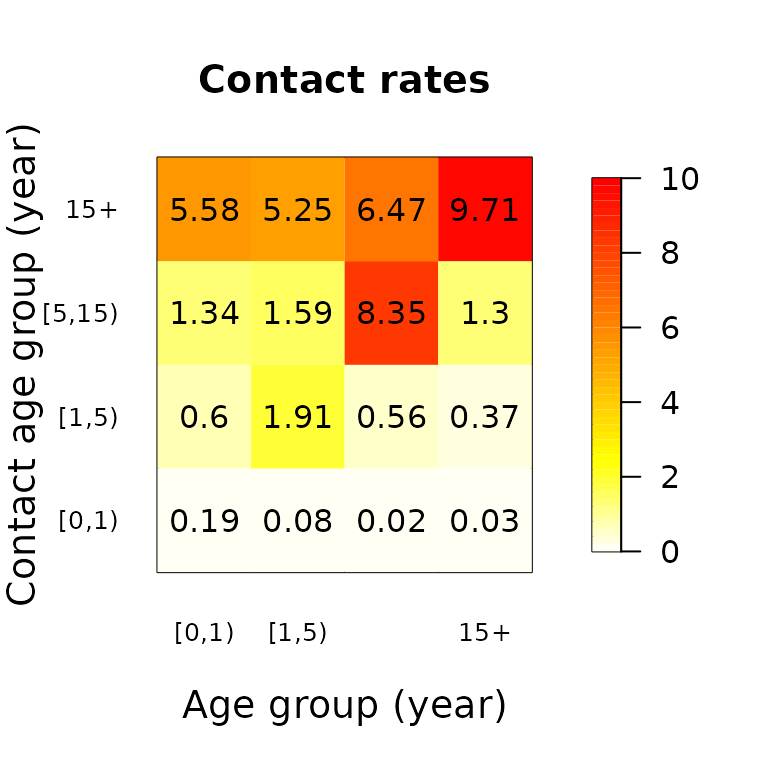
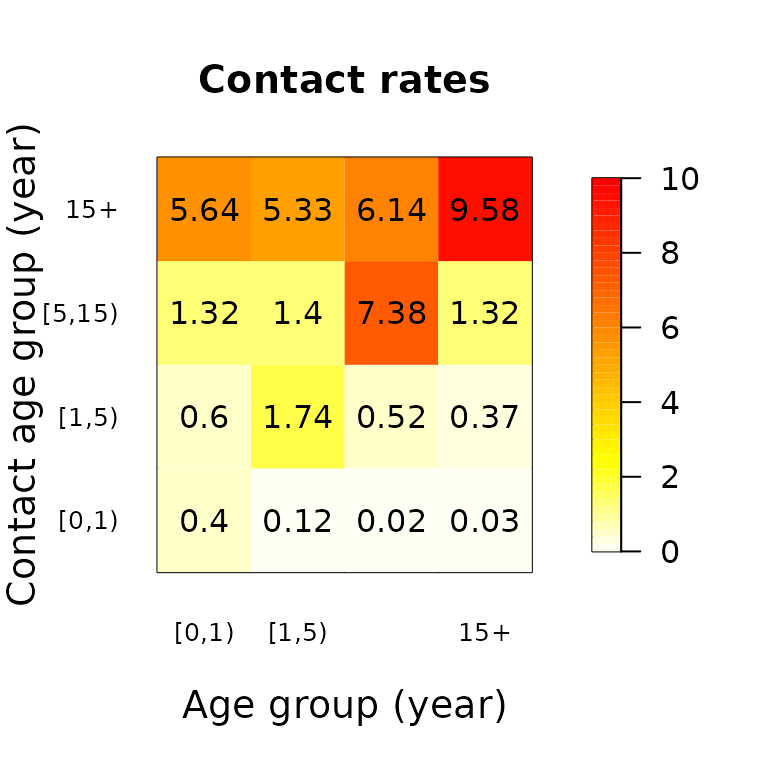
Deploying to gh-pages from @ epiforecasts/socialmixr@ff389272a7bd9f9928a9cee53e7e5e60d08a561d 🚀

diff --git a/articles/socialmixr.html b/articles/socialmixr.html
@@ -225,10 +225,10 @@ be obtained, for example the mean:</p>
 <span><span class="va">mr</span></span>
 <span><span class="co">#&gt;          contact.age.group</span></span>
 <span><span class="co">#&gt; age.group      [0,1)     [1,5)   [5,15)      15+</span></span>
-<span><span class="co">#&gt;    [0,1)  0.19346405 0.6026144 1.340523 5.581046</span></span>
-<span><span class="co">#&gt;    [1,5)  0.07532466 1.9054127 1.588500 5.249003</span></span>
-<span><span class="co">#&gt;    [5,15) 0.02415701 0.5556632 8.352961 6.467441</span></span>
-<span><span class="co">#&gt;    15+    0.03455159 0.3667314 1.303036 9.713680</span></span></code></pre></div>
+<span><span class="co">#&gt;    [0,1)  0.40047233 0.5985560 1.322524 5.638421</span></span>
+<span><span class="co">#&gt;    [1,5)  0.12096243 1.7365368 1.396358 5.326786</span></span>
+<span><span class="co">#&gt;    [5,15) 0.01819316 0.5207887 7.383902 6.138165</span></span>
+<span><span class="co">#&gt;    15+    0.02680394 0.3705660 1.321939 9.577358</span></span></code></pre></div>
 </div>
 <div class="section level2">
 <h2 id="demography">Demography<a class="anchor" aria-label="anchor" href="#demography"></a>

diff --git a/news/index.html b/news/index.html
@@ -48,8 +48,9 @@
     </div>
 
     <div class="section level2">
-<h2 class="pkg-version" data-toc-text="development version" id="socialmixr-development-version">socialmixr (development version)<a class="anchor" aria-label="anchor" href="#socialmixr-development-version"></a></h2>
-</div>
+<h2 class="pkg-version" data-toc-text="0.3.1.9000" id="socialmixr-0319000">socialmixr 0.3.1.9000<a class="anchor" aria-label="anchor" href="#socialmixr-0319000"></a></h2>
+<ul><li>An error in <code><a href="../reference/list_surveys.html">list_surveys()</a></code> was fixed which stopped this working</li>
+</ul></div>
     <div class="section level2">
 <h2 class="pkg-version" data-toc-text="0.3.1" id="socialmixr-031">socialmixr 0.3.1<a class="anchor" aria-label="anchor" href="#socialmixr-031"></a></h2><p class="text-muted">CRAN release: 2023-10-26</p>
 <ul><li>Tests were updated to prevent failures due to machine precision issues on some platforms (<a href="https://github.com/epiforecasts/socialmixr/issues/100" class="external-link">#100</a>)</li>
